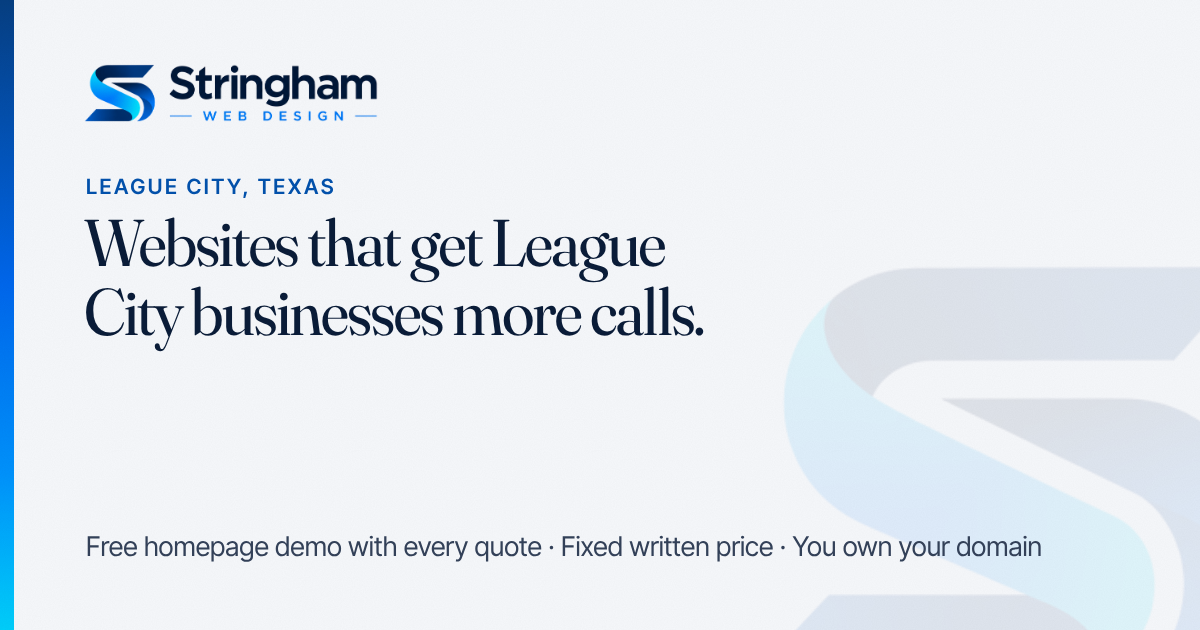
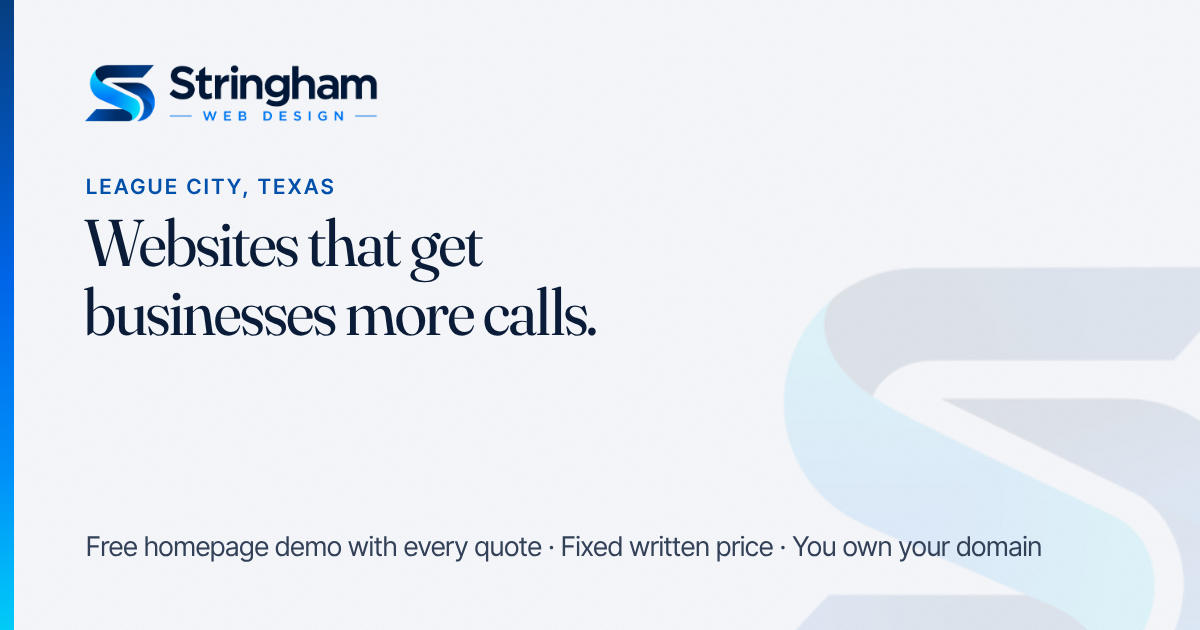
Hero headline: "Websites that get businesses more calls."
League City comes out of the headline; the chip above it still says
"Custom websites · League City, Texas", and the page title and
description keep the city for search. The share image and its alt text
carry the new headline.

Claude-Session: https://claude.ai/code/session_01XAX6KwBJB2YFrfw3kxFnw4

Changed region(s): [[0.0617, 0.3317, 0.5858, 0.5429]]

diff --git a/scripts/launch-check.js b/scripts/launch-check.js
@@ -89,7 +89,7 @@ const BANNED = /Texas ABA|ABA Centers|texasabacenterscg|lorem|placeholder|exampl
   }
 
   const home = seen.get('/');
-  ok('home says what, for whom, where above the fold', /Websites that get\s+League City businesses\s+more calls\./.test(home.text) && /owner-run businesses/i.test(home.text) && /Custom websites · League City, Texas/i.test(home.text));
+  ok('home says what, for whom, where above the fold', /Websites that get\s+businesses more calls\./.test(home.text) && /owner-run businesses/i.test(home.text) && /Custom websites · League City, Texas/i.test(home.text));
   ok('home has the one CTA', (home.text.match(/Get a quote \+ free demo/g) || []).length >= 1);
 
   // The referral reward is published in the same words everywhere it appears.

diff --git a/app/home/Hero.tsx b/app/home/Hero.tsx
@@ -23,8 +23,7 @@ export default function Hero() {
           <p className={s.chip}>Custom websites · League City, Texas</p>
           <h1 id="hero-title" className={s.h1}>
             <span className={s.line}><span>Websites that get</span></span>
-            <span className={s.line}><span>League City businesses</span></span>
-            <span className={s.line}><span>more calls.</span></span>
+            <span className={s.line}><span>businesses more calls.</span></span>
           </h1>
           <p className={s.sub}>
             I design, build and run custom websites for owner-run businesses. Ask for a quote and I&rsquo;ll build you a free demo of your homepage to go with it, so you see your new site before you spend a dollar.

diff --git a/app/data/meta.ts b/app/data/meta.ts
@@ -13,7 +13,7 @@ import { site } from "./site";
 // shared one unless a niche page passes its own).
 const DEFAULT_IMAGE = {
   url: "/opengraph-image.png",
-  alt: "Stringham Web Design logo. Websites and Google listings that bring League City businesses more calls. Free Google check, websites from $2,000, no ad spend required.",
+  alt: "Stringham Web Design logo. Websites that get businesses more calls. Free Google check, websites from $2,000, no ad spend required.",
 };
 
 export function pageMeta({ title, absolute, description, path, image, imageAlt }: { title?: string; absolute?: string; description: string; path: string; image?: string; imageAlt?: string }): Metadata {
